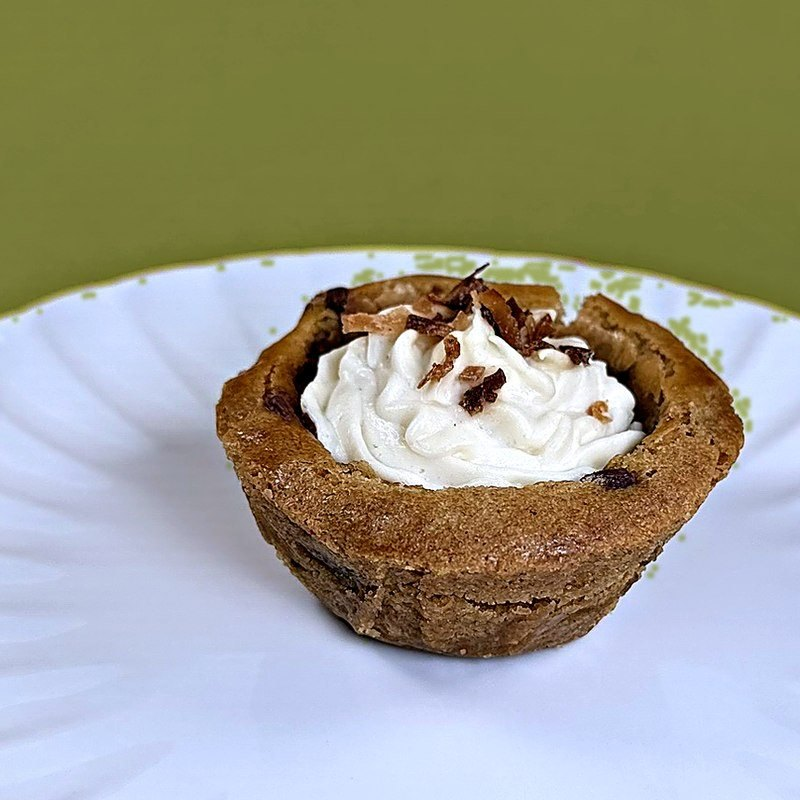
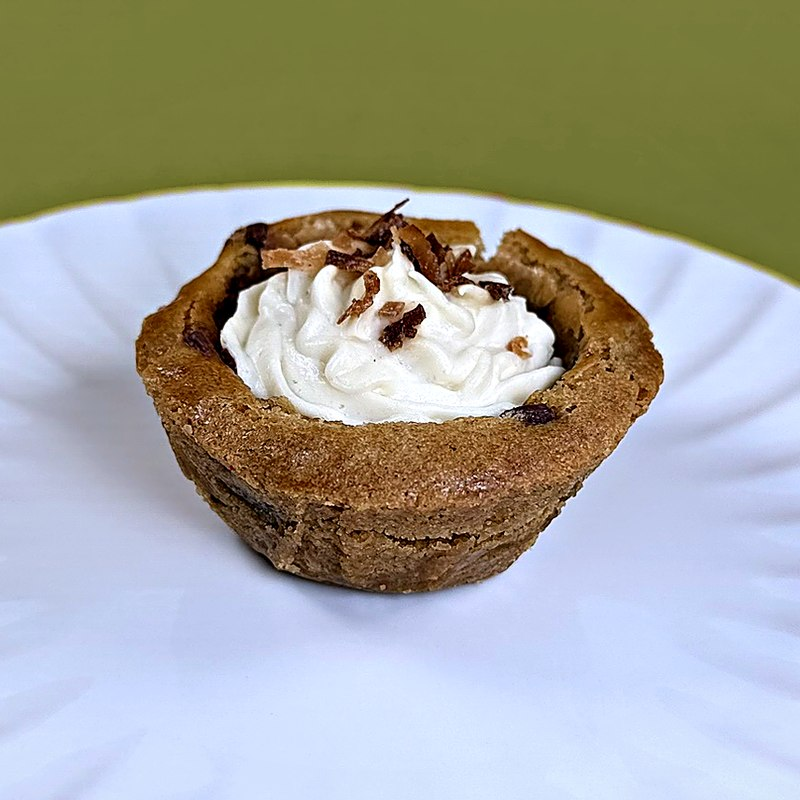
Mary Cookies: cheesecake de limón en cookie pie y foto centrada
Claude-Session: https://claude.ai/code/session_015dL2sNW5R9ZGNvpo3DgFWQ

diff --git a/marycookies/bn/index.html b/marycookies/bn/index.html
@@ -659,7 +659,7 @@ const ALL_FLAVORS = [
 const FLAVORS = ALL_FLAVORS.filter(f => !HIDDEN.has(f.id));
 const ALL_PIES = [
   {id:'pie-coconut', cold:true, name:{en:'Coconut cheesecake', es:'Cheesecake de coco'}, d:{en:'Piped cream cheese, toasted coconut.', es:'Queso crema y coco tostado.'}, fill:{en:'cream cheese (milk), sugar, toasted coconut', es:'queso crema (leche), azúcar, coco tostado'}, al:{en:'Wheat, Milk, Egg, Soy. Also contains coconut.', es:'Trigo, Leche, Huevo, Soya. También contiene coco.'}},
-  {id:'pie-lemon', cold:true, name:{en:'Lemon', es:'Limón'}, d:{en:'Lemon cheesecake cream, fresh zest.', es:'Crema de cheesecake de limón y ralladura.'}, fill:{en:'cream cheese (milk), sugar, lemon', es:'queso crema (leche), azúcar, limón'}, al:{en:'Wheat, Milk, Egg, Soy', es:'Trigo, Leche, Huevo, Soya'}},
+  {id:'pie-lemon', cold:true, name:{en:'Lemon cheesecake', es:'Cheesecake de limón'}, d:{en:'Lemon cheesecake cream, fresh zest.', es:'Crema de cheesecake de limón y ralladura.'}, fill:{en:'cream cheese (milk), sugar, lemon', es:'queso crema (leche), azúcar, limón'}, al:{en:'Wheat, Milk, Egg, Soy', es:'Trigo, Leche, Huevo, Soya'}},
   {id:'pie-arequipe', name:{en:'Dulce de Leche', es:'Dulce de Leche'}, d:{en:'Filled with arequipe and a caramel drizzle.', es:'Relleno de arequipe con hilos de caramelo.'}, fill:{en:'arequipe (milk, sugar)', es:'arequipe (leche, azúcar)'}, al:{en:'Wheat, Milk, Egg, Soy', es:'Trigo, Leche, Huevo, Soya'}},
   {id:'pie-hazelnut', name:{en:'Nutella®', es:'Nutella®'}, d:{en:'Nutella® and chopped hazelnuts.', es:'Nutella® y avellana picada.'}, fill:{en:'chocolate hazelnut spread (sugar, palm oil, hazelnuts, cocoa, milk, soy lecithin), hazelnuts', es:'crema de avellana y cacao (azúcar, aceite de palma, avellanas, cacao, leche, lecitina de soya), avellanas'}, al:{en:'Wheat, Milk, Egg, Soy, Tree nuts (hazelnut)', es:'Trigo, Leche, Huevo, Soya, Nueces de árbol (avellana)'}}
 ];
@@ -966,7 +966,7 @@ const Q = {
   'gift.custom':{q:say('Can I add a message?','¿Puedo agregar un mensaje?'), a:say('Yes! Add it in the note when you order and we include it with your box.','¡Sí! Agrégalo en la nota al pedir y lo incluimos con tu caja.')},
   'gift.when':{q:say('When should I order for Christmas?','¿Cuándo pido para Navidad?'), a:say('As early as you can. Order by Wednesday for weekend delivery; December weekends fill up fast.','Lo antes posible. Antes del miércoles para el fin de semana; los fines de semana de diciembre se llenan rápido.')},
   'flv.list':{q:say('What flavors do you have?','¿Qué sabores tienen?'), a:()=>say('Four stuffed cookies: '+FLAVORS.map(f=>f.name.en).join(', ')+'.','Cuatro galletas rellenas: '+FLAVORS.map(f=>f.name.es).join(', ')+'.'), go:'#build', gl:say('See the menu','Ver el menú')},
-  'flv.pie':{q:say('What is a cookie pie?','¿Qué es un cookie pie?'), a:say('A thick vanilla chocolate chip cookie cup with the creamy filling you like: coconut cheesecake, lemon, dulce de leche or Nutella®.','Un vasito de galleta de vainilla con chispas y el relleno cremoso que prefieras: cheesecake de coco, limón, dulce de leche o Nutella®.'), go:'#build', gl:say('Build my box','Armar mi caja')},
+  'flv.pie':{q:say('What is a cookie pie?','¿Qué es un cookie pie?'), a:say('A thick vanilla chocolate chip cookie cup with the creamy filling you like: coconut cheesecake, lemon cheesecake, dulce de leche or Nutella®.','Un vasito de galleta de vainilla con chispas y el relleno cremoso que prefieras: cheesecake de coco, cheesecake de limón, dulce de leche o Nutella®.'), go:'#build', gl:say('Build my box','Armar mi caja')},
   'flv.best':{q:say("What's the most popular?",'¿Cuál es la más pedida?'), a:say('The Coconut Cheesecake cookie pie and the Red Velvet Cheesecake are the favorites in our gift box.','El cookie pie de cheesecake de coco y el Red Velvet con Cheesecake son las favoritas de la caja.'), recs:['pie-coconut','redvelvet']},
   'ord.how':{q:say('How do I order?','¿Cómo pido?'), a:say('Build your box here and tap order: your order is written into a text for us. We confirm the day and price. You pay at delivery.','Arma tu caja aquí y toca pedir: tu pedido se escribe en un mensaje para nosotros. Confirmamos día y precio. Pagas al recibir.'), go:'#build', gl:say('Build my box','Armar mi caja')},
   'ord.when':{q:say('How far ahead?','¿Con cuánta anticipación?'), a:say('By Wednesday for weekend delivery. Events and large orders: at least 3 days.','Antes del miércoles para el fin de semana. Eventos y pedidos grandes: mínimo 3 días.')},

diff --git a/marycookies/index.html b/marycookies/index.html
@@ -659,7 +659,7 @@ const ALL_FLAVORS = [
 const FLAVORS = ALL_FLAVORS.filter(f => !HIDDEN.has(f.id));
 const ALL_PIES = [
   {id:'pie-coconut', cold:true, name:{en:'Coconut cheesecake', es:'Cheesecake de coco'}, d:{en:'Piped cream cheese, toasted coconut.', es:'Queso crema y coco tostado.'}, fill:{en:'cream cheese (milk), sugar, toasted coconut', es:'queso crema (leche), azúcar, coco tostado'}, al:{en:'Wheat, Milk, Egg, Soy. Also contains coconut.', es:'Trigo, Leche, Huevo, Soya. También contiene coco.'}},
-  {id:'pie-lemon', cold:true, name:{en:'Lemon', es:'Limón'}, d:{en:'Lemon cheesecake cream, fresh zest.', es:'Crema de cheesecake de limón y ralladura.'}, fill:{en:'cream cheese (milk), sugar, lemon', es:'queso crema (leche), azúcar, limón'}, al:{en:'Wheat, Milk, Egg, Soy', es:'Trigo, Leche, Huevo, Soya'}},
+  {id:'pie-lemon', cold:true, name:{en:'Lemon cheesecake', es:'Cheesecake de limón'}, d:{en:'Lemon cheesecake cream, fresh zest.', es:'Crema de cheesecake de limón y ralladura.'}, fill:{en:'cream cheese (milk), sugar, lemon', es:'queso crema (leche), azúcar, limón'}, al:{en:'Wheat, Milk, Egg, Soy', es:'Trigo, Leche, Huevo, Soya'}},
   {id:'pie-arequipe', name:{en:'Dulce de Leche', es:'Dulce de Leche'}, d:{en:'Filled with arequipe and a caramel drizzle.', es:'Relleno de arequipe con hilos de caramelo.'}, fill:{en:'arequipe (milk, sugar)', es:'arequipe (leche, azúcar)'}, al:{en:'Wheat, Milk, Egg, Soy', es:'Trigo, Leche, Huevo, Soya'}},
   {id:'pie-hazelnut', name:{en:'Nutella®', es:'Nutella®'}, d:{en:'Nutella® and chopped hazelnuts.', es:'Nutella® y avellana picada.'}, fill:{en:'chocolate hazelnut spread (sugar, palm oil, hazelnuts, cocoa, milk, soy lecithin), hazelnuts', es:'crema de avellana y cacao (azúcar, aceite de palma, avellanas, cacao, leche, lecitina de soya), avellanas'}, al:{en:'Wheat, Milk, Egg, Soy, Tree nuts (hazelnut)', es:'Trigo, Leche, Huevo, Soya, Nueces de árbol (avellana)'}}
 ];
@@ -966,7 +966,7 @@ const Q = {
   'gift.custom':{q:say('Can I add a message?','¿Puedo agregar un mensaje?'), a:say('Yes! Add it in the note when you order and we include it with your box.','¡Sí! Agrégalo en la nota al pedir y lo incluimos con tu caja.')},
   'gift.when':{q:say('When should I order for Christmas?','¿Cuándo pido para Navidad?'), a:say('As early as you can. Order by Wednesday for weekend delivery; December weekends fill up fast.','Lo antes posible. Antes del miércoles para el fin de semana; los fines de semana de diciembre se llenan rápido.')},
   'flv.list':{q:say('What flavors do you have?','¿Qué sabores tienen?'), a:()=>say('Four stuffed cookies: '+FLAVORS.map(f=>f.name.en).join(', ')+'.','Cuatro galletas rellenas: '+FLAVORS.map(f=>f.name.es).join(', ')+'.'), go:'#build', gl:say('See the menu','Ver el menú')},
-  'flv.pie':{q:say('What is a cookie pie?','¿Qué es un cookie pie?'), a:say('A thick vanilla chocolate chip cookie cup with the creamy filling you like: coconut cheesecake, lemon, dulce de leche or Nutella®.','Un vasito de galleta de vainilla con chispas y el relleno cremoso que prefieras: cheesecake de coco, limón, dulce de leche o Nutella®.'), go:'#build', gl:say('Build my box','Armar mi caja')},
+  'flv.pie':{q:say('What is a cookie pie?','¿Qué es un cookie pie?'), a:say('A thick vanilla chocolate chip cookie cup with the creamy filling you like: coconut cheesecake, lemon cheesecake, dulce de leche or Nutella®.','Un vasito de galleta de vainilla con chispas y el relleno cremoso que prefieras: cheesecake de coco, cheesecake de limón, dulce de leche o Nutella®.'), go:'#build', gl:say('Build my box','Armar mi caja')},
   'flv.best':{q:say("What's the most popular?",'¿Cuál es la más pedida?'), a:say('The Coconut Cheesecake cookie pie and the Red Velvet Cheesecake are the favorites in our gift box.','El cookie pie de cheesecake de coco y el Red Velvet con Cheesecake son las favoritas de la caja.'), recs:['pie-coconut','redvelvet']},
   'ord.how':{q:say('How do I order?','¿Cómo pido?'), a:say('Build your box here and tap order: your order is written into a text for us. We confirm the day and price. You pay at delivery.','Arma tu caja aquí y toca pedir: tu pedido se escribe en un mensaje para nosotros. Confirmamos día y precio. Pagas al recibir.'), go:'#build', gl:say('Build my box','Armar mi caja')},
   'ord.when':{q:say('How far ahead?','¿Con cuánta anticipación?'), a:say('By Wednesday for weekend delivery. Events and large orders: at least 3 days.','Antes del miércoles para el fin de semana. Eventos y pedidos grandes: mínimo 3 días.')},
